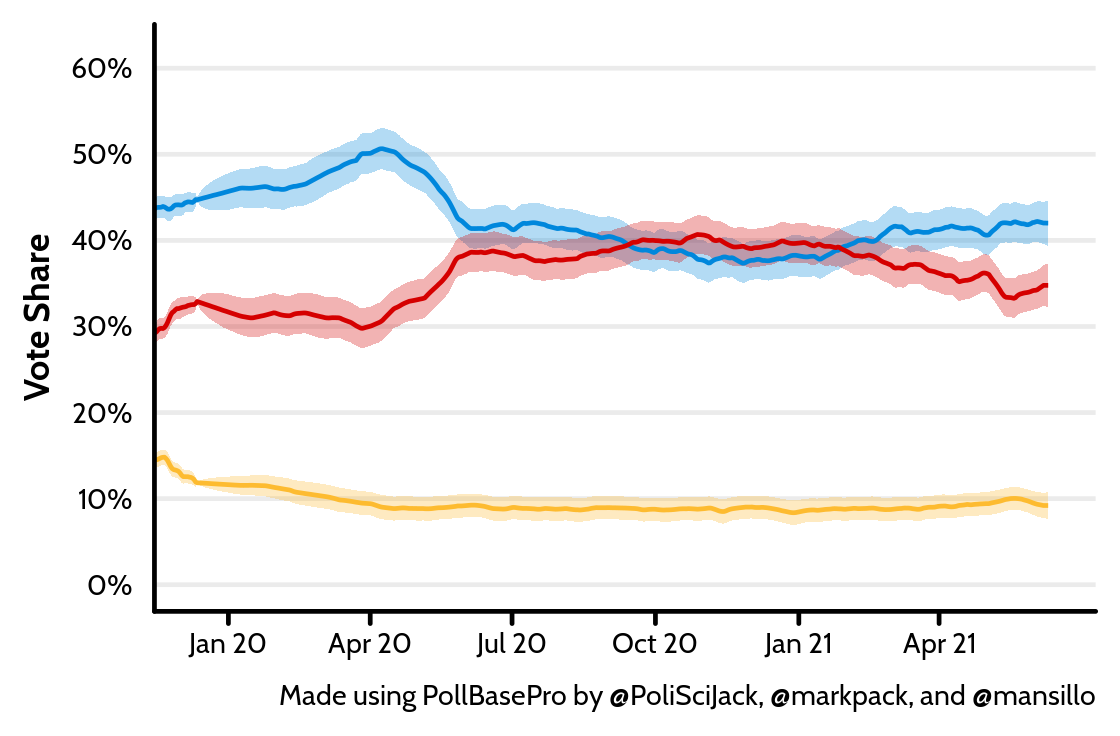
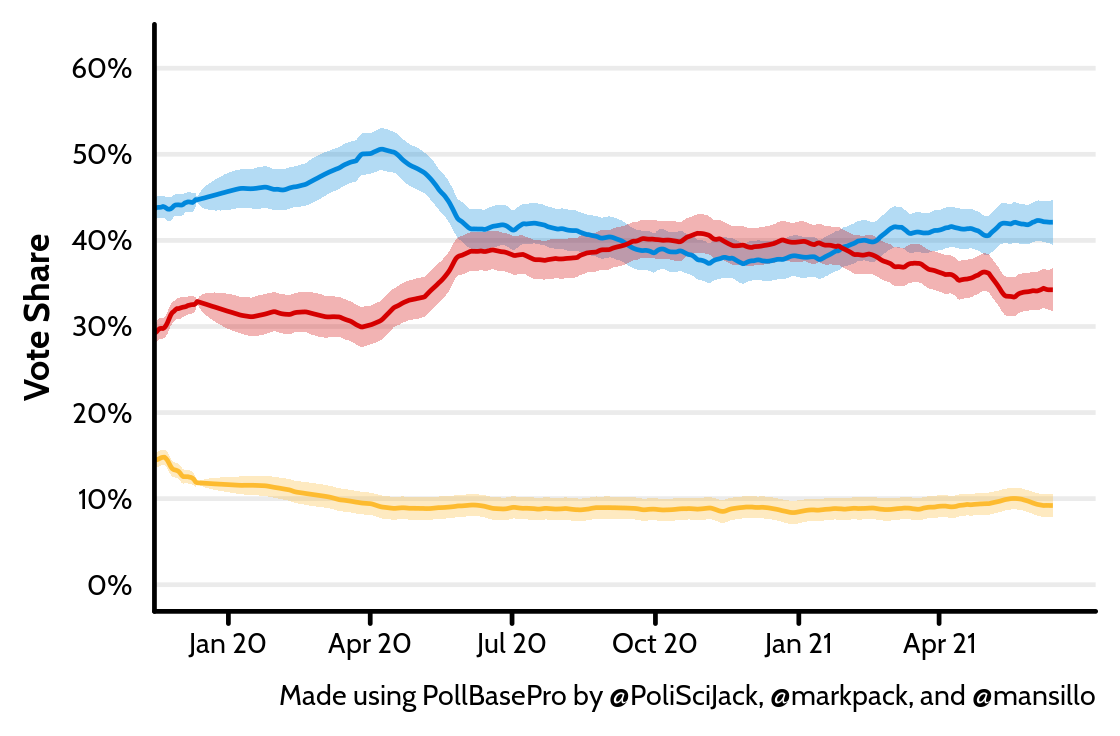
Update readme

diff --git a/README.md b/README.md
@@ -10,8 +10,8 @@ simple. It contains two pre-formatted datasets, plus a host of useful
 functions. The first dataset, `pollbase`, is a long-format version of
 Mark Pack’s dataset of historic British public opinion polls combined
 with more recent data from Wikipedia. The second, `pollbasepro`,
-provides 24,123 daily estimates of voting intention figures for each of
-Britain’s three largest parties from 26 May 1955 to 10 June 2021.
+provides 24,126 daily estimates of voting intention figures for each of
+Britain’s three largest parties from 26 May 1955 to 13 June 2021.
 
 To install the latest version of `{britpol}`, run the following code in
 `R`:
@@ -24,14 +24,14 @@ devtools::install_github("jackobailey/britpol")
 
 <img src="https://raw.githubusercontent.com/jackobailey/britpol/master/documentation/_assets/timeplot_gh.png" alt="Recent polling figures" align="right" width="400" style="padding: 0 15px; float: right;"/>
 
-**British Poll of Polls, 10 June 2021:**
+**British Poll of Polls, 13 June 2021:**
 
 -   **Conservative Party:** 42% (39% to 45%)
--   **Labour Party:** 35% (32% to 37%)
+-   **Labour Party:** 34% (32% to 37%)
 -   **Liberal Democrats:** 9% (8% to 11%)
 
 `pollbasepro` suggests that the Conservative Party is the largest party
-in Britain. They hold a lead over the Labour Party of around 7% (4% to
+in Britain. They hold a lead over the Labour Party of around 8% (4% to
 11%). This puts the Labour Party in second and the Liberal Democrats in
 third.
 
